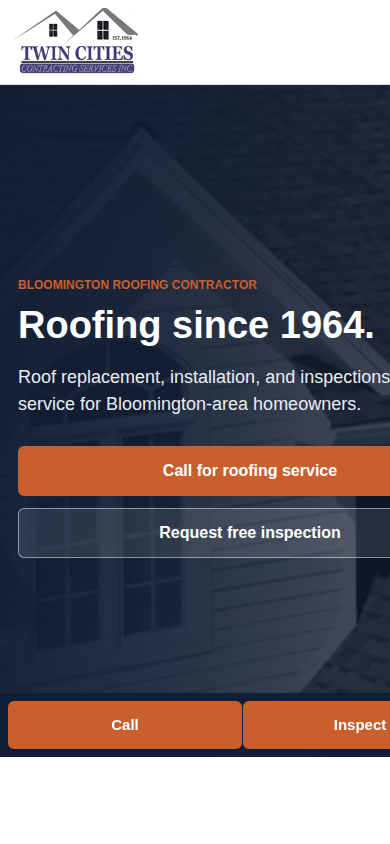
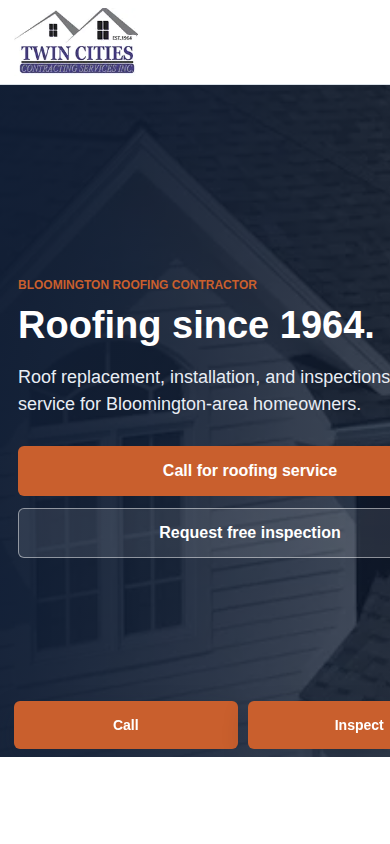
Update Twin Cities growth pitch

diff --git a/public/twin-cities-contracting-services/pitch/pitch-deck.html b/public/twin-cities-contracting-services/pitch/pitch-deck.html
@@ -4,7 +4,7 @@
     <meta charset="utf-8">
     <meta name="viewport" content="width=device-width, initial-scale=1">
     <meta name="robots" content="noindex,nofollow">
-    <title>Twin Cities Contracting Services Redesign Pitch</title>
+    <title>Twin Cities Contracting Services Growth Review</title>
     <style>
       :root {
         --navy: #172d57;
@@ -194,26 +194,26 @@
   <body>
     <main>
       <section>
-        <p class="eyebrow">Private redesign concept</p>
-        <h1>A cleaner roofing site.</h1>
-        <p class="lead">The current site has strong substance: roofing since 1964, Bloomington roots, and focused residential services. The opportunity is a faster call / inspection path.</p>
+        <p class="eyebrow">Private AI-native growth review</p>
+        <h1>More local reach from a stronger first impression.</h1>
+        <p class="lead">Forteress Media helps small businesses grow with practical AI-native consulting across web presence, local SEO, lead capture, and lightweight automation. This review uses Twin Cities Contracting Services as a focused example: audit the current experience, then show how a sharper homepage could turn long-standing trust into more calls and inspection requests.</p>
         <a class="section-action" href="../prototype/index.html">View Prototype</a>
       </section>
 
       <section>
-        <h2>UX Summary</h2>
+        <h2>Growth Opportunity</h2>
         <div class="grid">
           <div class="card">
-            <strong>Mobile Hero Is Dense</strong>
-            The first screen carries SEO, location, company name, and CTA all at once.
+            <strong>Local Trust Is Real</strong>
+            Roofing since 1964, Bloomington roots, and focused residential services are strong conversion assets.
           </div>
           <div class="card">
-            <strong>Trust Proof Exists</strong>
-            Since 1964, Bloomington location, and service depth are valuable but can be surfaced faster.
+            <strong>First Impression Is Dense</strong>
+            The current first screen asks visitors to process too much before they choose whether to call.
           </div>
           <div class="card">
-            <strong>CTA Can Be Clearer</strong>
-            Homeowners should immediately see call now and free roof inspection actions.
+            <strong>Follow-Up Can Improve</strong>
+            A cleaner quote path can support better lead capture, routing, and simple AI-assisted follow-up.
           </div>
         </div>
         <a class="section-action" href="ux-scorecard.html">View Complete UX Assessment</a>
@@ -263,18 +263,19 @@
         <div class="offer">
           <div>
             <p class="eyebrow">Suggested offer</p>
-            <h2>A focused homepage rebuild without taking the current site down.</h2>
+            <h2>A focused growth sprint without taking the current site down.</h2>
             <ul>
-              <li>Mobile-first homepage redesign.</li>
+              <li>Website uplift led by stronger positioning and conversion flow.</li>
               <li>Call and free-inspection conversion path.</li>
-              <li>Preserve roofing/local SEO value in production.</li>
+              <li>Local SEO and service-area messaging cleanup.</li>
+              <li>Simple lead-capture and AI-enabled follow-up opportunities.</li>
               <li>Current site stays live until replacement is approved.</li>
             </ul>
           </div>
           <div class="price">
             <div>
               <strong>$1,950</strong>
-              <span>early case-study homepage rebuild</span>
+              <span>early case-study website uplift</span>
             </div>
           </div>
         </div>

diff --git a/public/twin-cities-contracting-services/prototype/styles.css b/public/twin-cities-contracting-services/prototype/styles.css
@@ -571,22 +571,25 @@ textarea {
 
   .mobile-actions {
     position: fixed;
-    right: 0;
-    bottom: 0;
-    left: 0;
+    right: 14px;
+    bottom: 8px;
+    left: 14px;
     z-index: 30;
     display: grid;
     grid-template-columns: minmax(0, 1fr) minmax(0, 1fr);
-    gap: 1px;
-    padding: 8px;
-    background: rgba(15, 29, 53, 0.96);
+    gap: 10px;
+    padding: 0;
+    background: transparent;
   }
 
   .mobile-actions a {
     min-height: 48px;
     min-width: 0;
+    padding: 10px 8px;
+    border-radius: 6px;
+    box-shadow: 0 10px 24px rgba(15, 29, 53, 0.26);
     color: var(--white);
     background: var(--orange);
-    font-size: 15px;
+    font-size: 14px;
   }
 }

diff --git a/client-packages/twin-cities-contracting-services/pitch/pitch-brief.md b/client-packages/twin-cities-contracting-services/pitch/pitch-brief.md
@@ -6,7 +6,7 @@ Twin Cities Contracting Services Inc. is a Bloomington roofing contractor servin
 
 ## Why This Prospect
 
-The company appears established and credible, but the mobile homepage can do a better job presenting that credibility quickly. The current site has strong trust signals, service depth, and local SEO content, but the first screen is dense and the captured mobile hero headline overflows the viewport.
+The company appears established and credible, and Forteress Media can use a focused website uplift as the entry point for a broader AI-native growth conversation. The current site has strong trust signals, service depth, and local SEO content, but the first screen is dense and the captured mobile hero headline overflows the viewport.
 
 ## Current UX Opportunity
 
@@ -18,7 +18,7 @@ The company appears established and credible, but the mobile homepage can do a b
 
 ## Proposed Redesign
 
-The prototype reframes the homepage around homeowner action:
+The prototype reframes the homepage around homeowner action while positioning Forteress Media as a practical growth partner:
 
 - H1: "Roofing since 1964."
 - Primary CTA: Call for roofing service.
@@ -28,12 +28,20 @@ The prototype reframes the homepage around homeowner action:
 - Project imagery pulled from the public site.
 - Low-friction concept form clearly marked as demo-only.
 
+Broader consulting angle:
+
+- Website uplift as the visible proof point.
+- Local SEO and service-area messaging cleanup.
+- Lead-capture and quote-request flow improvements.
+- Practical automation / AI follow-up opportunities after the site earns interest.
+
 ## Offer
 
-Suggested early-case-study offer:
+Suggested early-case-study offer / conversation starter:
 
 - $1,950 flat homepage/site rebuild.
 - Optional $149/month for hosting, maintenance, uptime checks, small edits, and basic reporting.
+- Optional growth sprint covering messaging, local SEO basics, conversion path, and lightweight AI-enabled follow-up workflows.
 
 Scope should stay focused:
 
@@ -55,3 +63,8 @@ Screenshots:
 - `screenshots/current/desktop-home.png`
 - `screenshots/prototype/mobile-home.png`
 - `screenshots/prototype/desktop-home.png`
+
+Email visual:
+
+- Use `public/twin-cities-contracting-services/pitch/screenshots/prototype/prototype_desktop.png` as the embedded/attached full-screen screenshot.
+- Keep mobile screenshots available in the pitch deck and audit for supporting evidence.

diff --git a/client-packages/twin-cities-contracting-services/pitch/outreach-email.md b/client-packages/twin-cities-contracting-services/pitch/outreach-email.md
@@ -1,28 +1,30 @@
 # Outreach Email
 
-Subject: Quick mobile homepage idea for Twin Cities Contracting Services
+Subject: AI-native growth idea for Twin Cities Contracting Services
 
 Hi Twin Cities Contracting Services team,
 
-I was looking at the Twin Cities Contracting Services site and noticed something specific: the business has the trust signals homeowners care about, especially roofing the Twin Cities since 1964, a clear Bloomington presence, and focused residential roofing services.
+I run Forteress Media, an AI-native consulting studio that helps small businesses grow their reach with sharper web presence, clearer messaging, SEO foundations, lightweight automation, and practical customer-conversion improvements.
 
-I mocked up a cleaner mobile-first homepage concept that keeps the existing identity but makes the first screen easier to act on: call for roofing service, request a roof inspection, and quickly see why the company is credible.
+I was looking at Twin Cities Contracting Services and saw a strong local business story: roofing the Twin Cities since 1964, a clear Bloomington presence, and focused residential roofing services. I also noticed an opportunity to make that credibility easier for homeowners to understand and act on when they land on the site.
 
-Prototype overview:
+As a small example of the kind of work we do, I put together a private overview that includes a quick audit and a homepage prototype. The prototype keeps the existing identity, but makes the first screen more direct: call for roofing service, request a roof inspection, and quickly see why the company is credible.
+
+Private audit and prototype:
 https://preview.forteressmedia.com/twin-cities-contracting-services/
 
 The main things I focused on:
 
-- clearer mobile first impression
+- clearer first impression across desktop and mobile
 - more visible "since 1964" proof
 - simpler call / inspection request path
 - service cards for replacement, installation, inspection, and shingle roofing
 - a more current visual presentation without losing the local contractor feel
 
-Would you be open to taking a look and replying with what you think? If useful, I can rebuild the homepage without taking the current site down during the process. Happy to do a quick 15-minute call.
+Would you be open to taking a look and replying with what you think? If useful, we can talk through the broader growth opportunities too, from website uplift and local SEO cleanup to lead-capture workflows and simple AI-enabled follow-up. Happy to do a quick 15-minute call.
 
 Prototype Preview:
-Attach or embed `public/twin-cities-contracting-services/pitch/screenshots/prototype/prototype_mobile.png`.
+Attach or embed `public/twin-cities-contracting-services/pitch/screenshots/prototype/prototype_desktop.png` as the full-screen preview image. Keep the mobile screenshots in the pitch page/audit, not as the primary email visual.
 
 Best,
 Brenden

diff --git a/client-packages/twin-cities-contracting-services/README.md b/client-packages/twin-cities-contracting-services/README.md
@@ -48,4 +48,4 @@ If Brenden approves the direction, package this into the ForteressMedia preview 
 
 `preview.forteressmedia.com/twin-cities-contracting-services/`
 
-Then prepare a short outreach note with the current mobile screenshot, redesigned mobile screenshot, and preview link.
+Then prepare a short outreach note with the deployed pitch link and the redesigned desktop/full-screen screenshot as the primary email visual. Keep mobile screenshots inside the pitch/audit as supporting evidence.